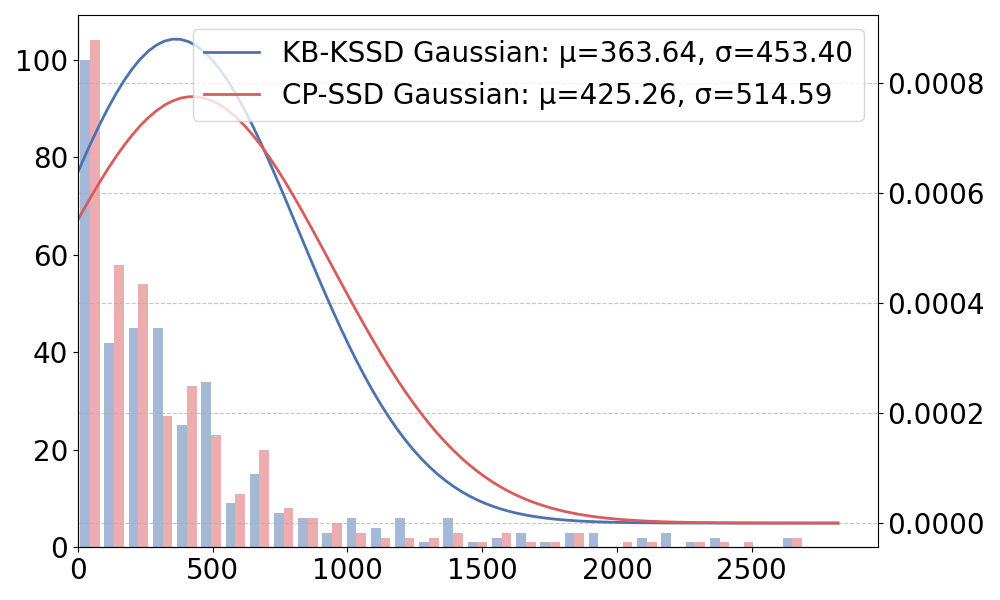
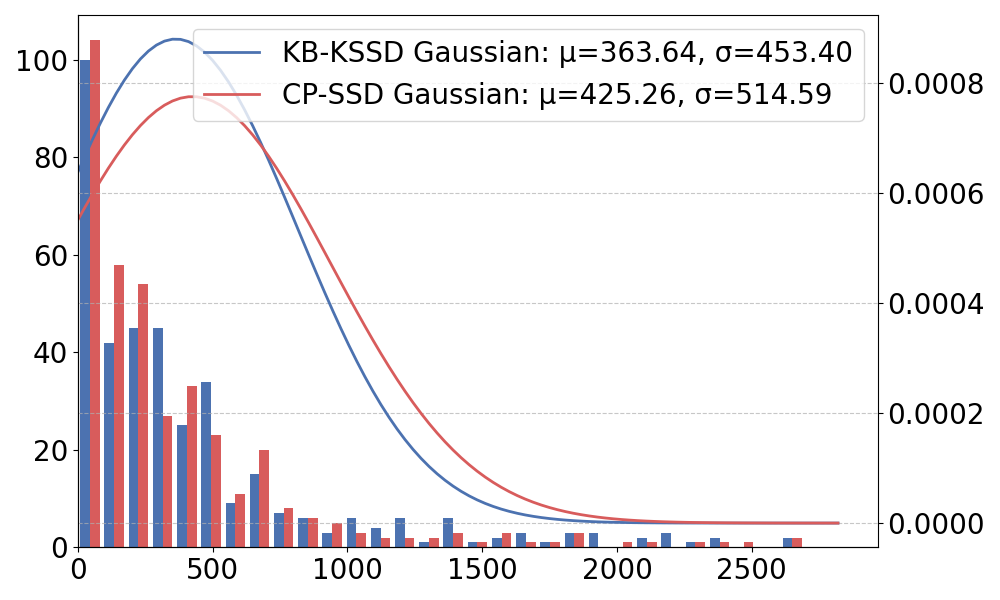
[ENH] Removed transparency from two histograms.

Changed region(s): [[0.062, 0.06, 0.744, 0.93], [0.775, 0.9, 0.806, 0.93]]

diff --git a/analysis-v2/man_steady_comparison/compare_methods.py b/analysis-v2/man_steady_comparison/compare_methods.py
@@ -501,7 +501,7 @@ ax2.grid(axis='y', linestyle='--', alpha=0.7)
 #plt.hist([orig_diffs, new_diffs], label=['orig', 'new'])
 #plt.hist(new_diffs, bins=20, density=True, alpha=0.3, label='new', color='#D85C5C')
 ax1.hist([np.array(orig_diffs_scattered + orig_diffs_clustered), np.array(new_diffs_scattered + new_diffs_clustered)],
-         bins=30, alpha=0.5, label=['CP-SSD', 'KB-KSSD'], color=['#4c72b0', '#D85C5C'])
+         bins=30, alpha=1, label=['CP-SSD', 'KB-KSSD'], color=['#4c72b0', '#D85C5C'])
 
 xmin, xmax = plt.xlim()
 x = np.linspace(xmin, xmax, 100)
@@ -559,7 +559,7 @@ plt.grid(axis='y', linestyle='--', alpha=0.7)
 #plt.hist([orig_diffs, new_diffs], label=['orig', 'new'])
 #plt.hist(new_diffs, bins=20, density=True, alpha=0.3, label='new', color='#D85C5C')
 ax1.hist([abs(np.array(orig_diffs_scattered + orig_diffs_clustered)), abs(np.array(new_diffs_scattered + new_diffs_clustered))],
-         bins=30, alpha=0.5, label=['CP-SSD', 'KB-KSSD'], color=['#4c72b0', '#D85C5C'])
+         bins=30, alpha=1, label=['CP-SSD', 'KB-KSSD'], color=['#4c72b0', '#D85C5C'])
 
 xmin, xmax = plt.xlim()
 x = np.linspace(xmin, xmax, 100)
